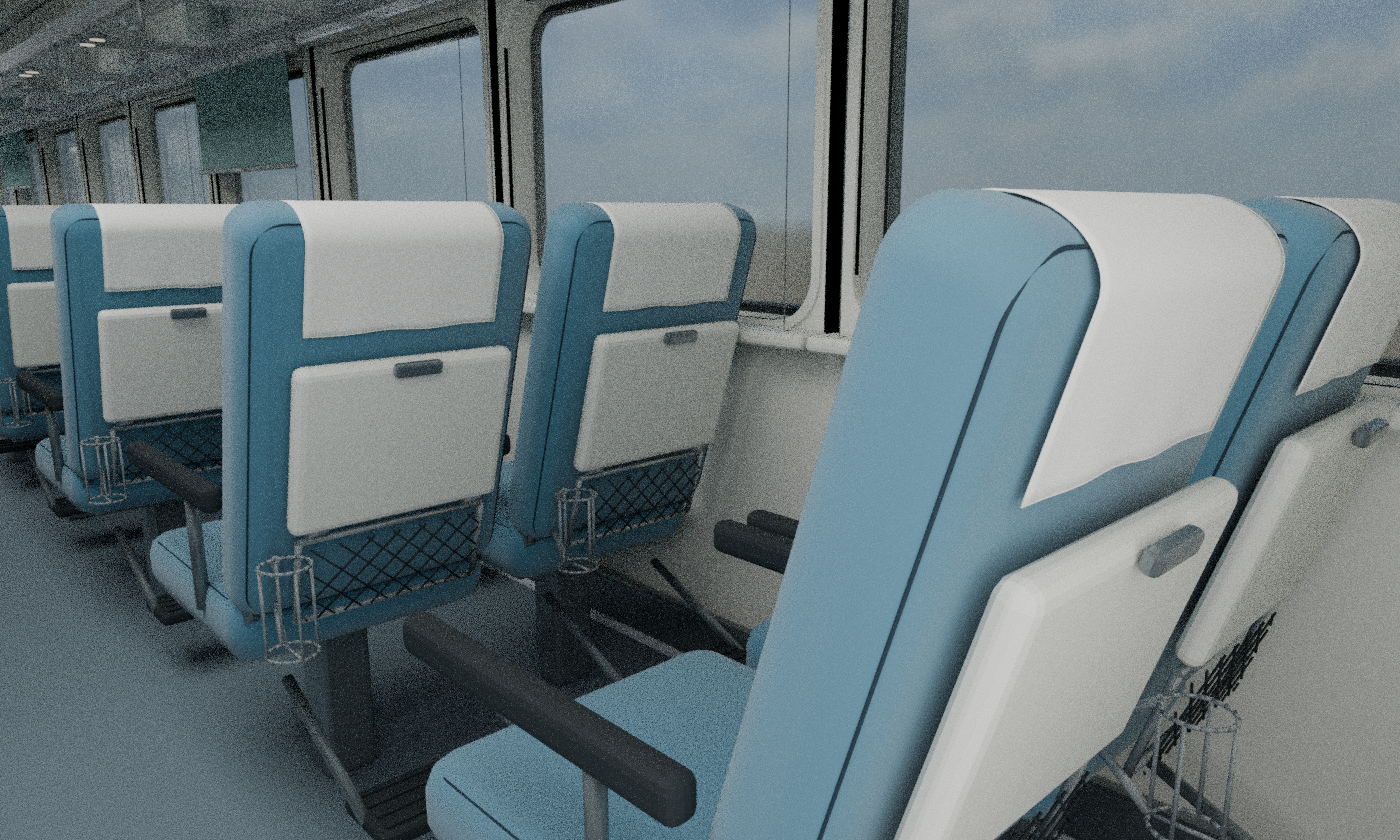
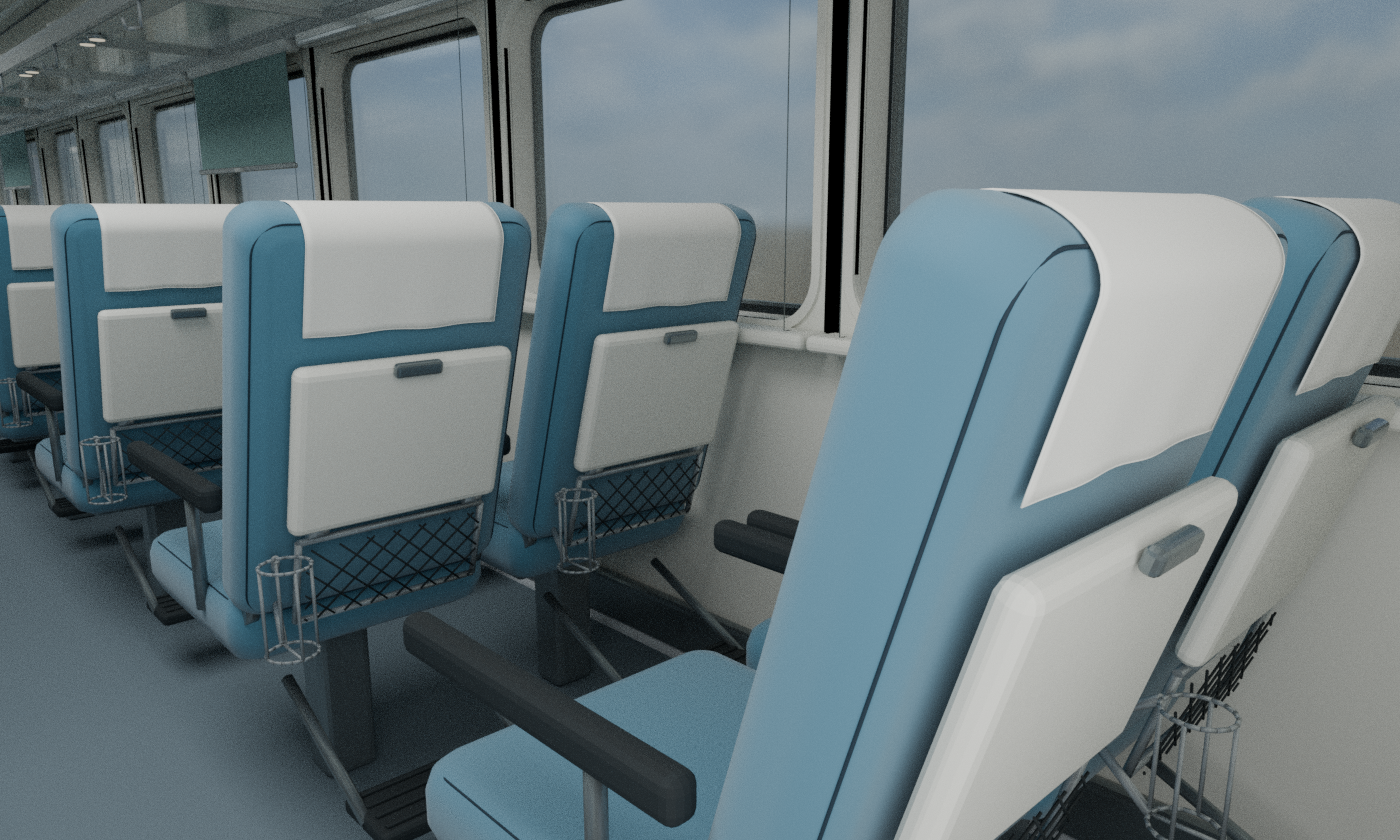
Preserve WIP coach detail source milestone: lhb_checkpoint_012

diff --git a/lhb_detail_v02/docs/iteration_log.md b/lhb_detail_v02/docs/iteration_log.md
@@ -82,3 +82,11 @@ Actual 1400×840 uniform 512-sample frame completed in 1323.1 seconds and was in
 ## All seven core class pairs, 8 October 2026 02:40 UTC
 
 GS exterior completed at 1400×840 uniform 512 samples in 606.4 seconds. Centre-entry arrangement, paired barred windows and non-AC roof are clearly distinguished; source remains the selected legacy GS type. All fourteen class interior/exterior frames are now complete and source-matched. Seven detail views remain, starting with the approved 3A bay camera. The gallery is not yet complete and native game conversion is still outside scope.
+
+## 3A bay final, 8 October 2026 03:03 UTC
+
+Completed actual 1400×840 uniform 512-sample bay view in 1408.7 seconds and inspected. Folded middle-berth backs, lower cushions, upper berths, ladders, curtains, reading lamps, table and bottle holders are visible. This view supplies berth-face detail obscured by the corridor camera. No source geometry or camera redesign was required, and no new visual defect was observed. Fifteen of 21 planned frames complete; CC chair close-up follows.
+
+## CC chair close-up final, 8 October 2026 03:29 UTC
+
+Actual 1400×840 uniform 512-sample close-up completed in 1625.1 seconds. Thin draped linen, upholstery piping, tray backs, nets, bracket-mounted bottle cages and footrests are legible. No newly visible attachment defect. Some bevel faceting is visible at this close range; the geometry remains the previously approved locked source. Sixteen of 21 frames complete, with 1A cabin-entry detail running next.

diff --git a/lhb_detail_v02/GALLERY.md b/lhb_detail_v02/GALLERY.md
@@ -1,6 +1,6 @@
 # LHB source review gallery
 
-**14 of 21 planned source-matched final-resolution frames complete.**
+**16 of 21 planned source-matched final-resolution frames complete.**
 
 Every linked image is an actual Blender CPU Cycles render of its named source. No image generation or photographic compositing. Uniform checkpointed views average eight independent 64-sample scene-linear EXRs, then apply AgX once. No denoising; some interior grain remains visible.
 
@@ -47,8 +47,8 @@ Sleeper corridor frames primarily show layout. The 3A bay view below provides cl
 
 ## Detail views
 
-- 3A bay: pending
-- CC chair detail: pending
+- [3A bay](previews/LHB_3A_bay.png) · [provenance](qa/render_3A_bay.json)
+- [CC chair detail](previews/LHB_CC_chair_detail.png) · [provenance](qa/render_CC_chair_detail.json)
 - 1A cabin entry: pending
 - 3A hvac: pending
 - 3A bogie: pending
